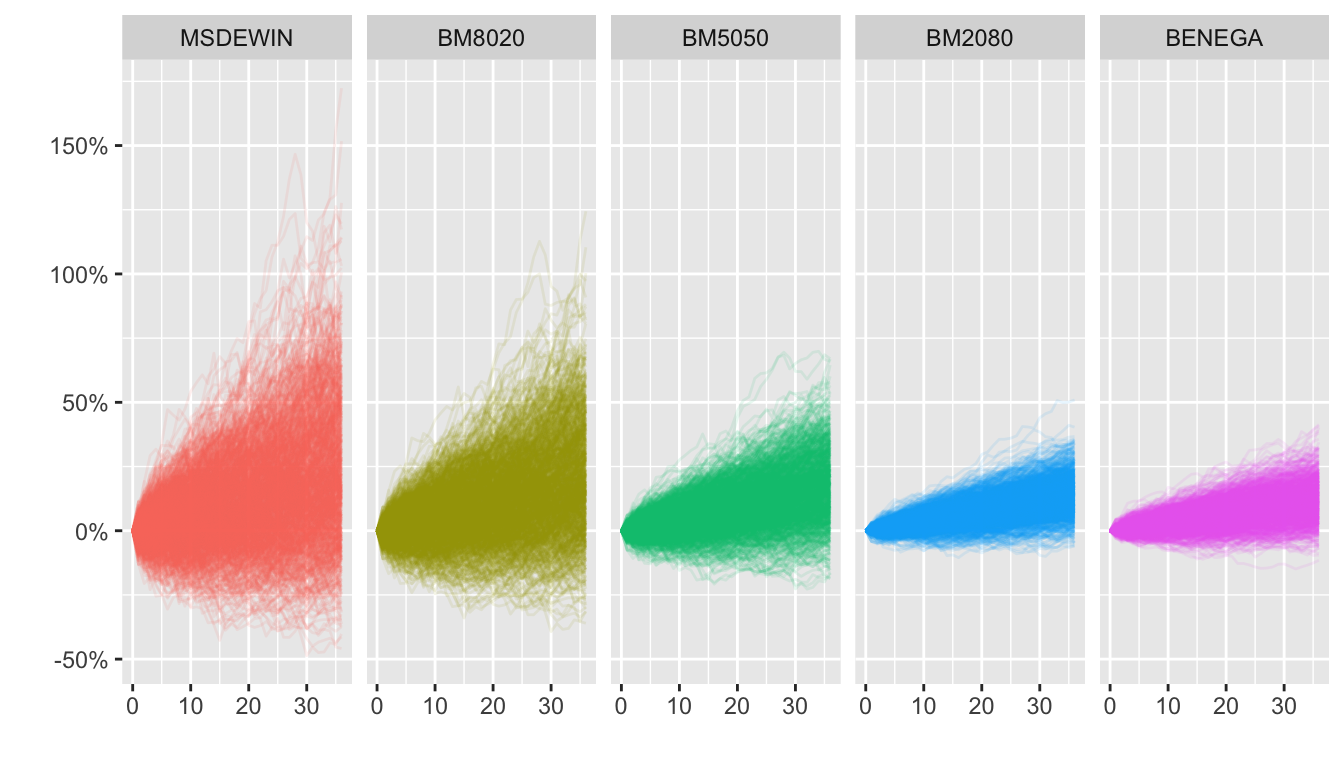
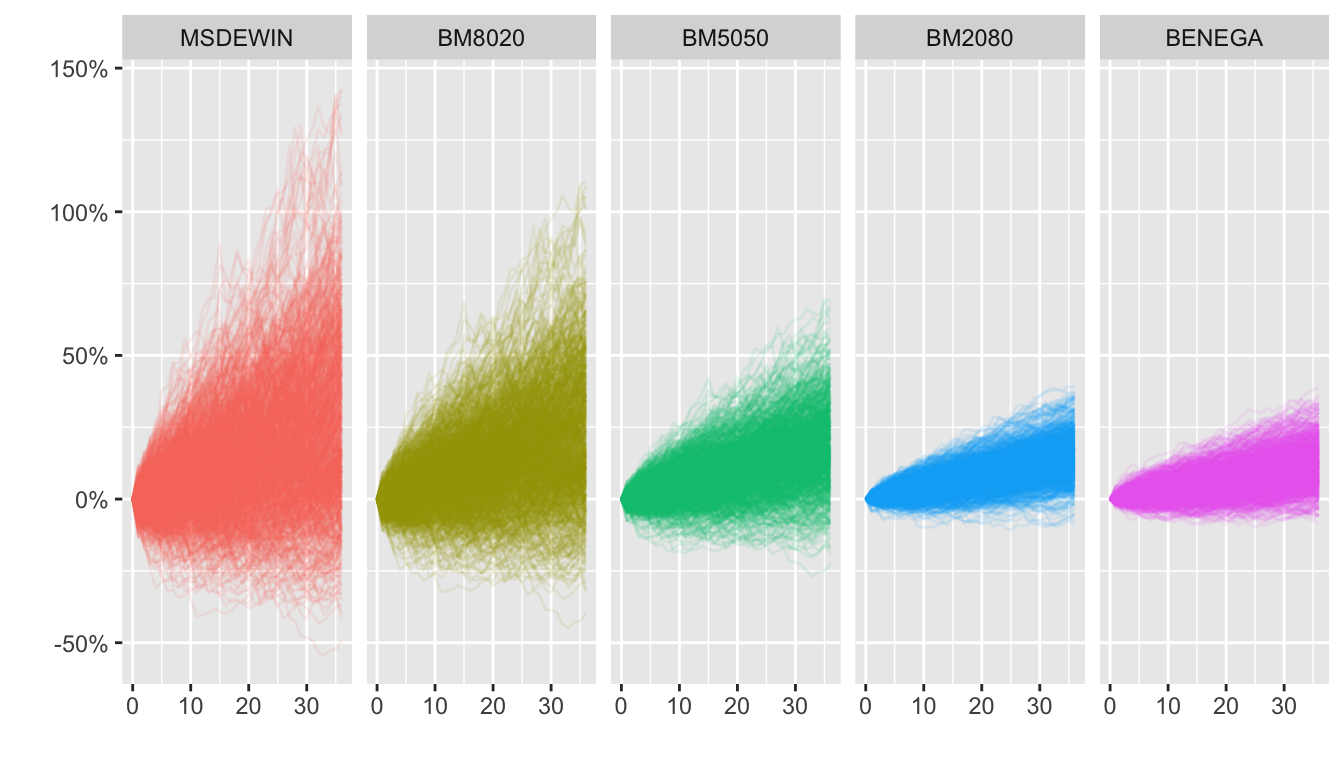
Nog een keer probereb

diff --git a/content/post/2022-02-21-bootstrappen/index.html b/content/post/2022-02-21-bootstrappen/index.html
@@ -1,53 +1,15 @@
+---
+title: Bootstrappen
+author: Pieter Prins
+date: '2022-02-21'
+slug: bootstrappen
+categories: []
+tags: []
+---
 
 <script src="{{< blogdown/postref >}}index_files/header-attrs/header-attrs.js"></script>
 
 
-<table>
-<tbody>
-<tr class="odd">
-<td>title: “Bootstrappen”</td>
-</tr>
-<tr class="even">
-<td>author: ’’</td>
-</tr>
-<tr class="odd">
-<td>date: ‘2022-02-21’</td>
-</tr>
-<tr class="even">
-<td>slug: bootstrappen</td>
-</tr>
-<tr class="odd">
-<td>categories: []</td>
-</tr>
-<tr class="even">
-<td>tags: []</td>
-</tr>
-<tr class="odd">
-<td>output:</td>
-</tr>
-<tr class="even">
-<td>html_document:</td>
-</tr>
-<tr class="odd">
-<td>df_print: paged</td>
-</tr>
-<tr class="even">
-<td>toc: yes</td>
-</tr>
-<tr class="odd">
-<td>toc_float:</td>
-</tr>
-<tr class="even">
-<td>toc_collapsed: yes</td>
-</tr>
-<tr class="odd">
-<td>toc_depth: 4</td>
-</tr>
-<tr class="even">
-<td>number_sections: yes</td>
-</tr>
-</tbody>
-</table>
 <div id="historie-vanaf-1999" class="section level1">
 <h1>Historie vanaf 1999</h1>
 <p>Return historie aandelen, obligaties en verschillende mixen, sinds 2015 (te weinig uiteraard, het gaat om het idee)</p>
@@ -77,18 +39,18 @@
 ## # Groups:   id [1]
 ##       id maand MSDEWIN BM8020 BM5050 BM2080 BENEGA
 ##    &lt;int&gt; &lt;int&gt;   &lt;dbl&gt;  &lt;dbl&gt;  &lt;dbl&gt;  &lt;dbl&gt;  &lt;dbl&gt;
-##  1     1     1    -1.2   -0.6    0.1    0.9    1.4
-##  2     1     2    -3.5   -2.5   -1.1    0.4    1.4
-##  3     1     3     1.2    0.7    0     -0.7   -1.2
-##  4     1     4    -0.9   -0.8   -0.5   -0.2   -0.1
-##  5     1     5    -2.1   -1.6   -1     -0.3    0.1
-##  6     1     6     0.6    0.4    0     -0.3   -0.5
-##  7     1     7    -0.5   -0.2    0.1    0.4    0.7
-##  8     1     8    -3.4   -2.8   -1.9   -1     -0.4
-##  9     1     9    -1     -0.6    0.1    0.8    1.2
-## 10     1    10     4.2    3.2    1.6    0.1   -0.9
-## 11     1    11     3.6    3.5    3.3    3.2    3.1
-## 12     1    12     1.6    1.2    0.6    0     -0.4</code></pre>
+##  1     1     1     3      2.6    1.8    1.1    0.6
+##  2     1     2    -9.8   -7.5   -3.9   -0.4    2  
+##  3     1     3    -1.6   -1.3   -1     -0.6   -0.4
+##  4     1     4    -0.5   -0.1    0.4    1      1.4
+##  5     1     5     3.5    2.9    2.1    1.3    0.8
+##  6     1     6     3      2.6    1.8    1.1    0.6
+##  7     1     7    -1.8   -1.5   -1.1   -0.7   -0.4
+##  8     1     8    -1.3   -1.1   -0.6   -0.2    0.1
+##  9     1     9    -2     -1.1    0.3    1.6    2.5
+## 10     1    10     1.3    1.2    1      0.9    0.8
+## 11     1    11     0.1    0.3    0.4    0.6    0.7
+## 12     1    12     6.7    5.3    3.3    1.3   -0.1</code></pre>
 <p>Deze ene specifieke alternatieve 12-m historie geeft de volgende grafieken</p>
 <p><img src="{{< blogdown/postref >}}index_files/figure-html/single_alt_historie_chart-1.png" width="672" /></p>
 </div>
@@ -102,11 +64,11 @@
 <pre><code>## # A tibble: 5 × 4
 ##   name    horizon  mean    sd
 ##   &lt;fct&gt;     &lt;dbl&gt; &lt;dbl&gt; &lt;dbl&gt;
-## 1 MSDEWIN       1   6.8  14.9
-## 2 BM8020        1   6.2  11.8
-## 3 BM5050        1   5.4   7.4
-## 4 BM2080        1   4.5   4.2
-## 5 BENEGA        1   3.9   4.1</code></pre>
+## 1 MSDEWIN       1   8.8  15.6
+## 2 BM8020        1   7.8  12.3
+## 3 BM5050        1   6.3   7.6
+## 4 BM2080        1   4.9   4.2
+## 5 BENEGA        1   3.9   4.4</code></pre>
 </div>
 <div id="alternatieve-36-maands-histories" class="section level1">
 <h1>1000 alternatieve 36-maands histories</h1>
@@ -118,11 +80,11 @@
 <pre><code>## # A tibble: 5 × 4
 ##   name    horizon  mean    sd
 ##   &lt;fct&gt;     &lt;dbl&gt; &lt;dbl&gt; &lt;dbl&gt;
-## 1 MSDEWIN       3   6.6   8.3
-## 2 BM8020        3   6.2   6.6
-## 3 BM5050        3   5.4   4.2
-## 4 BM2080        3   4.5   2.4
-## 5 BENEGA        3   3.8   2.4</code></pre>
+## 1 MSDEWIN       3   7.2   8.7
+## 2 BM8020        3   6.7   6.9
+## 3 BM5050        3   5.8   4.3
+## 4 BM2080        3   4.7   2.4
+## 5 BENEGA        3   3.9   2.4</code></pre>
 </div>
 <div id="langere-horizon-dezelfde-returns-kleinere-spreiding" class="section level1">
 <h1>Langere horizon, dezelfde returns, kleinere spreiding</h1>
